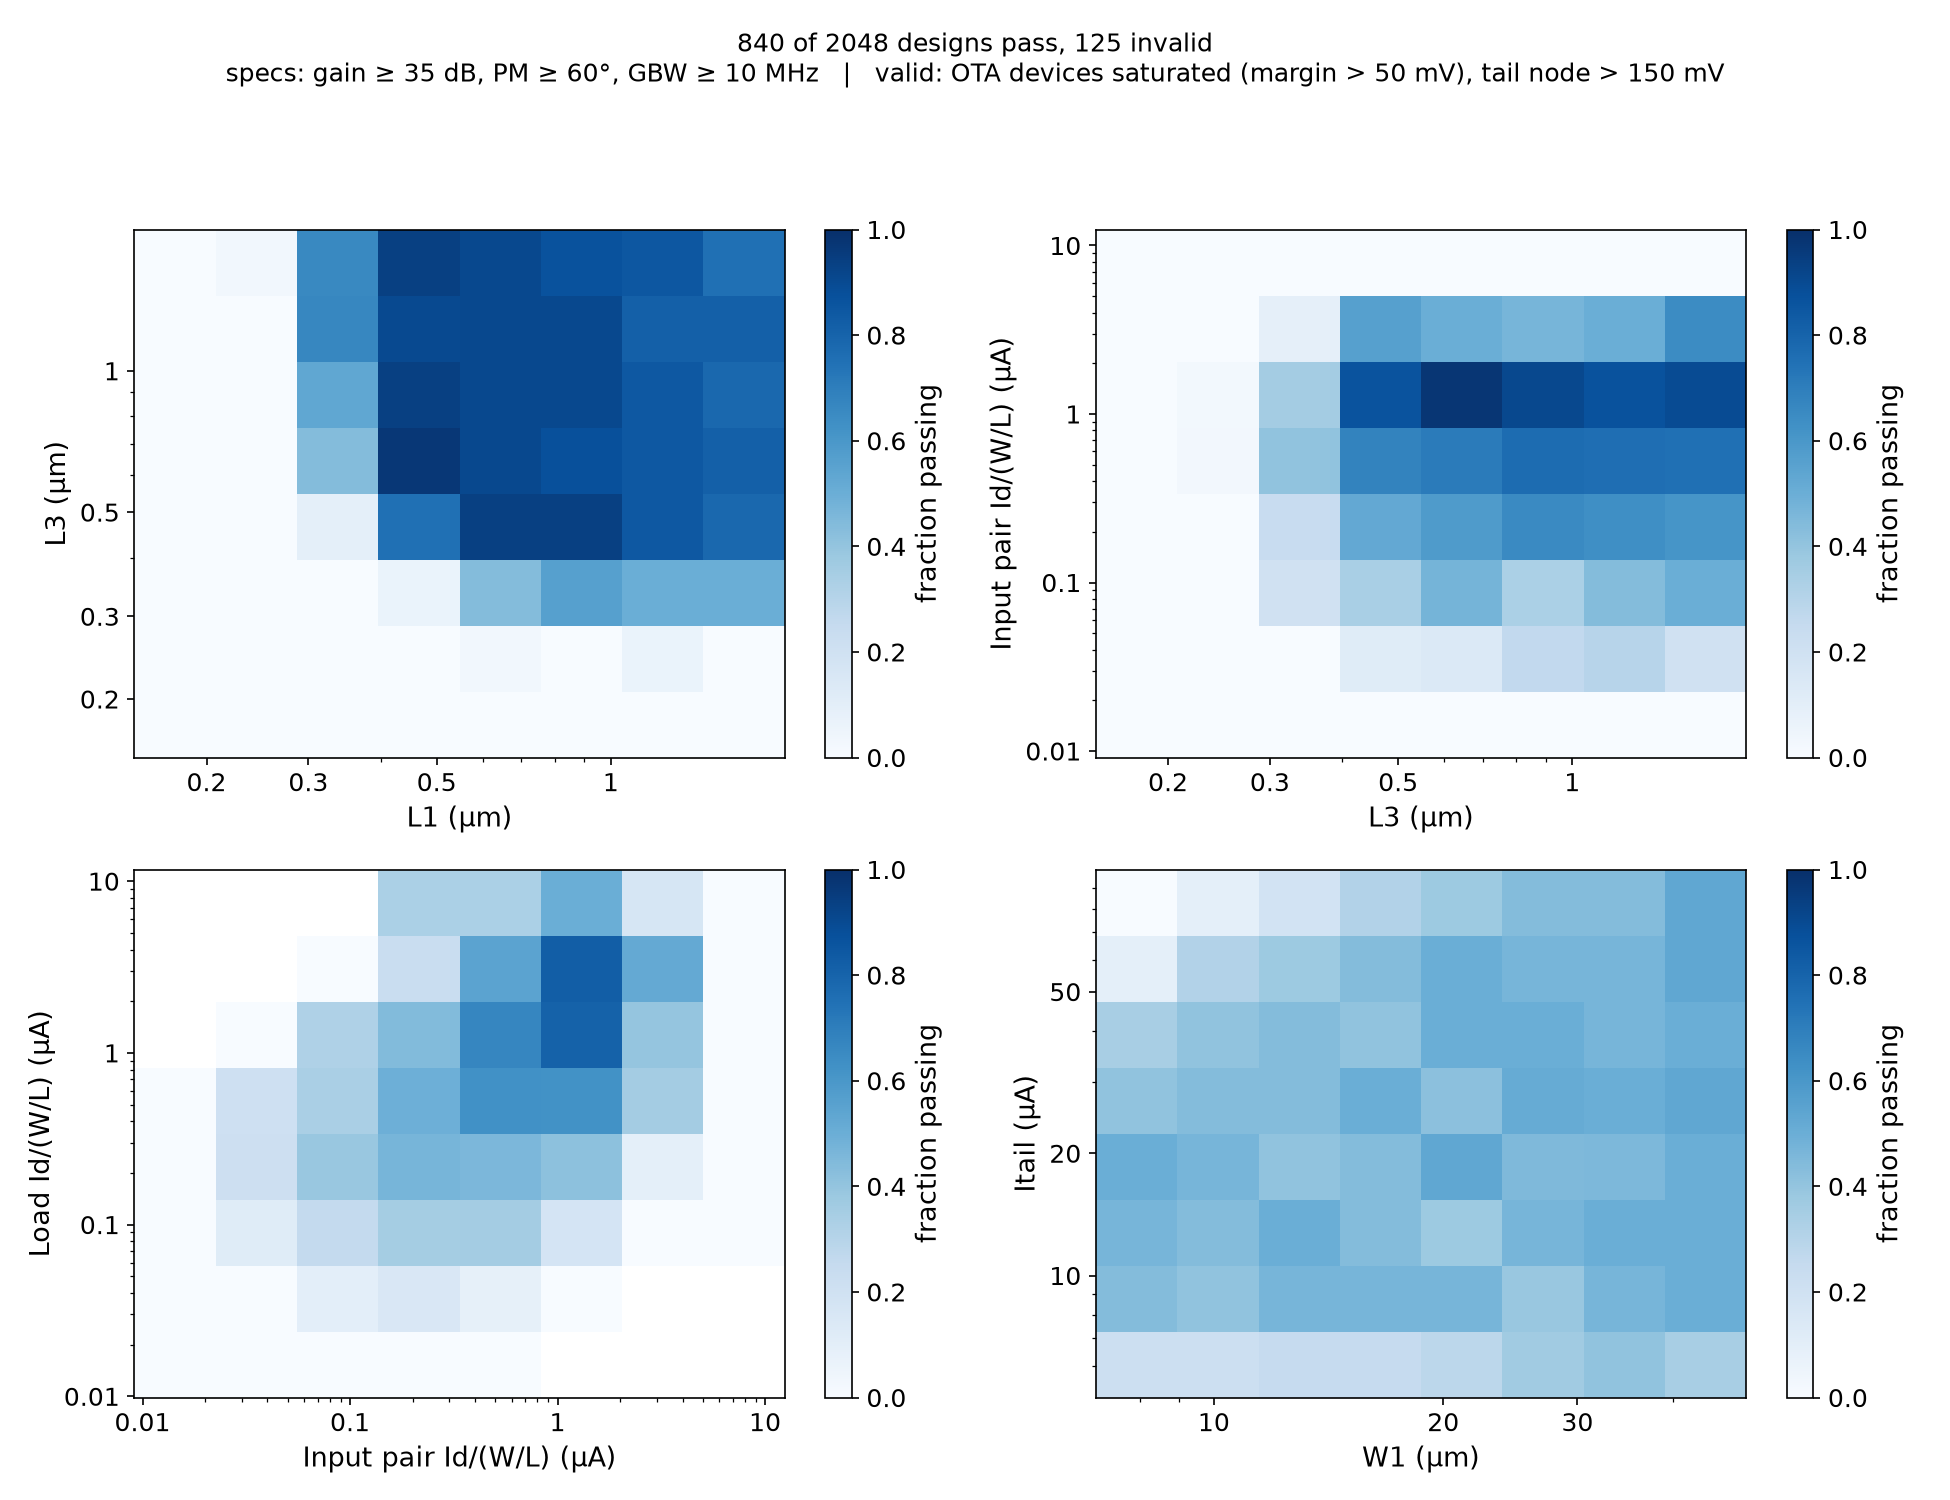
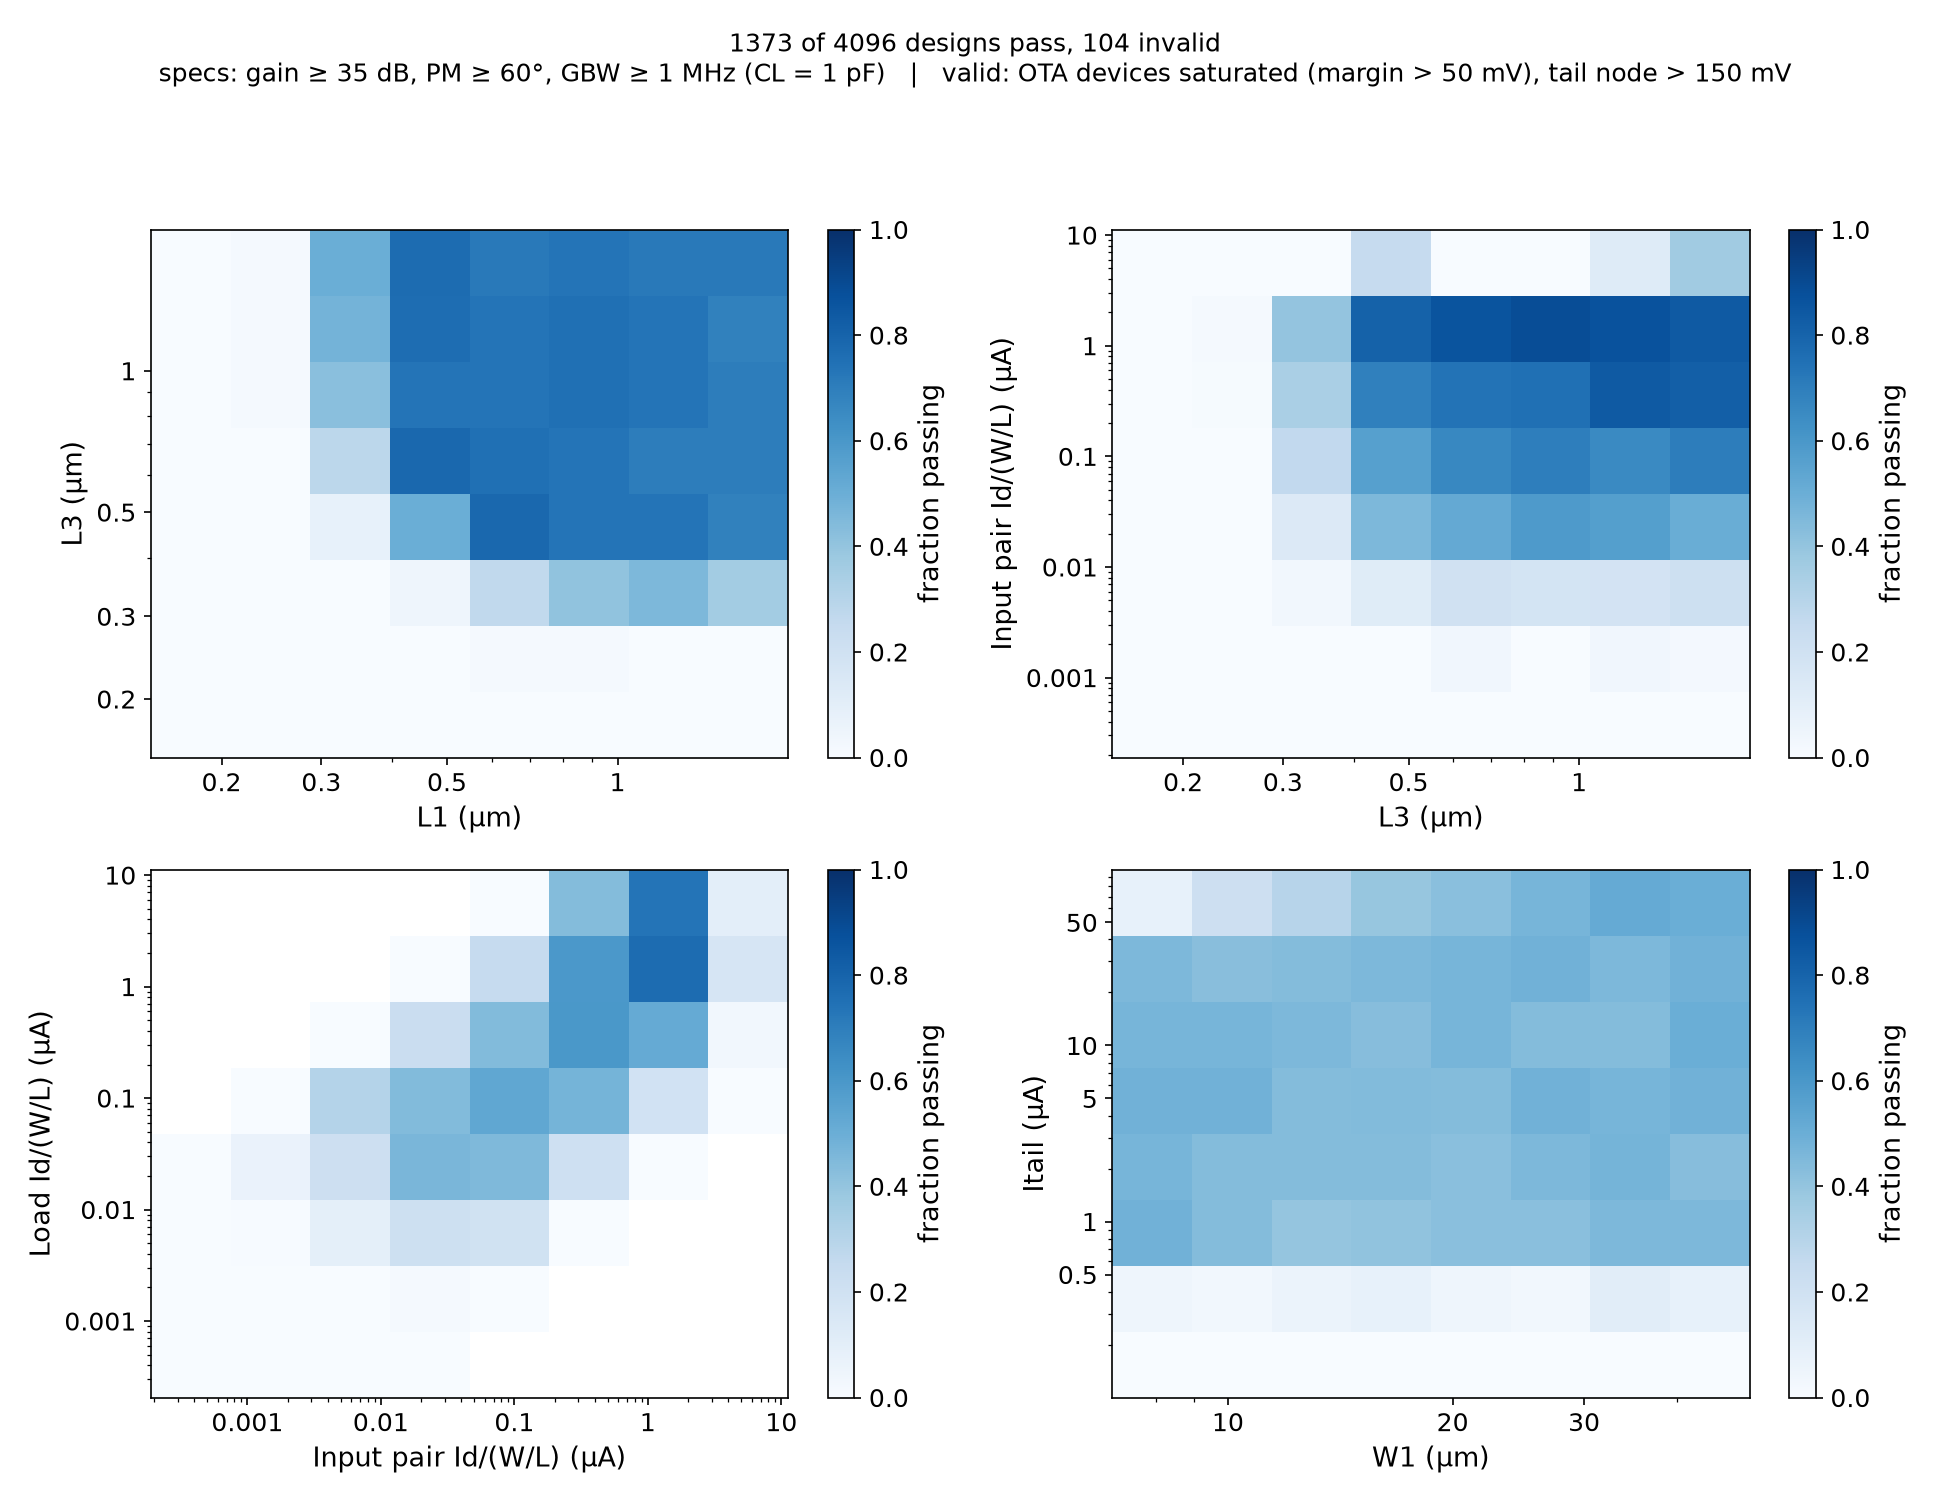
Fixed some bugs

diff --git a/plot_results.py b/plot_results.py
@@ -8,13 +8,16 @@ from matplotlib.patches import Patch
 
 from src.plotting import log_axis, setup_style
 from src.specs import SPECS, classify, spec_text, validity_text
+from src.specs import LOAD_CAP_PF, SPECS, classify, spec_text, validity_text
 
 setup_style()
 Path("reports").mkdir(exist_ok=True)
 
 df = pd.read_csv("data/ota5t_sobol.csv")
+df["class"] = classify(df)
 if "cl_pf" in df and abs(df["cl_pf"] - LOAD_CAP_PF).max() > 1e-9:
-    print("WARNING: data simulated with a different load cap than specs.yaml")df["itail_uA"] = df.itail * 1e6
+    print("WARNING: data simulated with a different load cap than specs.yaml")
+df["itail_uA"] = df.itail * 1e6
 df["gbw_MHz"] = df.gbw_hz / 1e6
 df["power_uW"] = df.power_w * 1e6
 df["jd_in_uA"] = df.itail_uA / 2 * df.l1 / df.w1       # Id/(W/L), input pair

diff --git a/sweep_ota.py b/sweep_ota.py
@@ -13,7 +13,7 @@ RANGES = {
     "l1": (0.15, 2.0),           # um
     "w3": (7, 50),               # um
     "l3": (0.15, 2.0),           # um
-    "itail": (50e-9, 100e-6),    # A
+    "itail": (100e-9, 100e-6),    # A
 }
 
 
